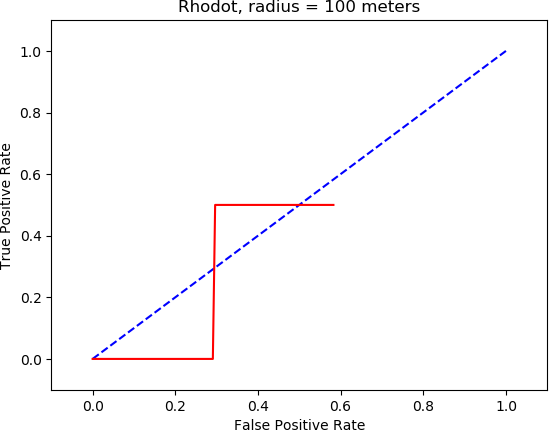
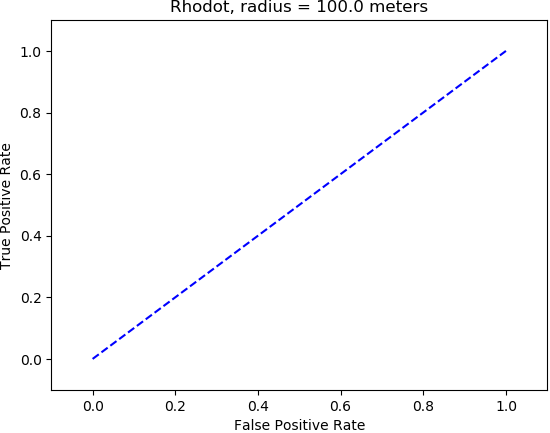
roc curves

Changed region(s): [[0.1545, 0.4503, 0.6182, 0.8406], [0.3091, 0.0, 0.7727, 0.03]]

diff --git a/plot_roc.py b/plot_roc.py
@@ -15,13 +15,13 @@ with hp.File('850mb_300m_10min_NAM_Rhodot_Origin_t=0-215hrs_Sept2017.hdf5','r') 
     s1 = data['s1'][:].squeeze()
     t = data['t'][:].squeeze()
     data.close()
-for radius in [1,10,100,500,1000,5000,10000,15000]:
+for radius in np.linspace(100,10000,37):#[1,10,100,500,1000,5000,10000,15000]:
     rhodot_TPR = []
     rhodot_FPR = []
     s1_TPR = []
     s1_FPR = []
     for percent in np.arange(0,101,1):
-        passing_times = np.load('passing_files/passing_times_{0:03d}th_percentile_radius={1:05d}.npy'.format(50,radius))+24            
+        passing_times = np.load('passing_files/passing_times_{0:03d}th_percentile_radius={1:05d}.npy'.format(90,int(radius)))+24            
         #passing_times = np.load('passing_files/passing_times_{0:03d}th_percentile_radius={1:05d}.npy'.format(percent,radius))+24            
         thresh_rhodot = -np.percentile(-rhodot[rhodot<0],percent)
         thresh_s1 = -np.percentile(-s1[s1<0],percent)
@@ -117,7 +117,7 @@ for radius in [1,10,100,500,1000,5000,10000,15000]:
     plt.title('Rhodot, radius = {0} meters'.format(radius))
     plt.xlim([-0.1,1.1])
     plt.ylim([-0.1,1.1])
-    plt.savefig('Rhodot_ROC_radius={0:05d}_no_ftle_thresh.png'.format(radius), transparent=False, bbox_inches='tight',pad_inches=0)
+    plt.savefig('Rhodot_ROC_radius={0:05d}_no_ftle_thresh.png'.format(int(radius)), transparent=False, bbox_inches='tight',pad_inches=0)
     #plt.savefig('Rhodot_ROC_radius={0:05d}.png'.format(radius), transparent=False, bbox_inches='tight',pad_inches=0)
     
     plt.figure(2)
@@ -129,7 +129,7 @@ for radius in [1,10,100,500,1000,5000,10000,15000]:
     plt.title('s1, radius = {0} meters'.format(radius))
     plt.xlim([-0.1,1.1])
     plt.ylim([-0.1,1.1])
-    plt.savefig('S1_ROC_radius={0:05d}_no_ftle_thresh.png'.format(radius), transparent=False, bbox_inches='tight',pad_inches=0)
+    plt.savefig('S1_ROC_radius={0:05d}_no_ftle_thresh.png'.format(int(radius)), transparent=False, bbox_inches='tight',pad_inches=0)
     #plt.savefig('S1_ROC_radius={0:05d}.png'.format(radius), transparent=False, bbox_inches='tight',pad_inches=0)
     '''
     plt.figure(3)
